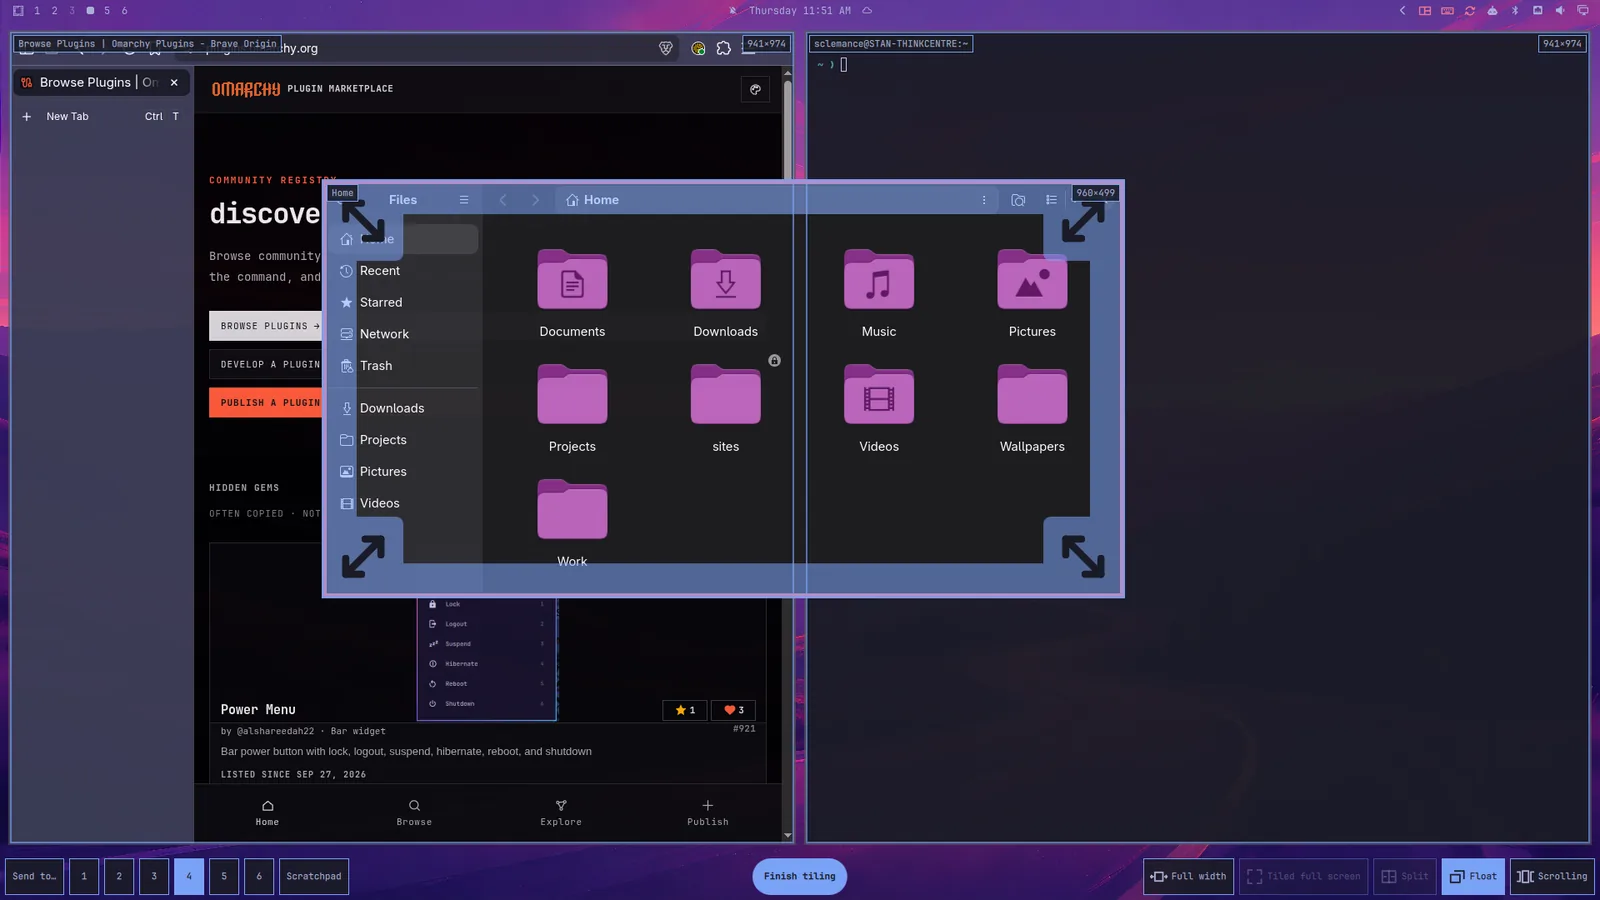
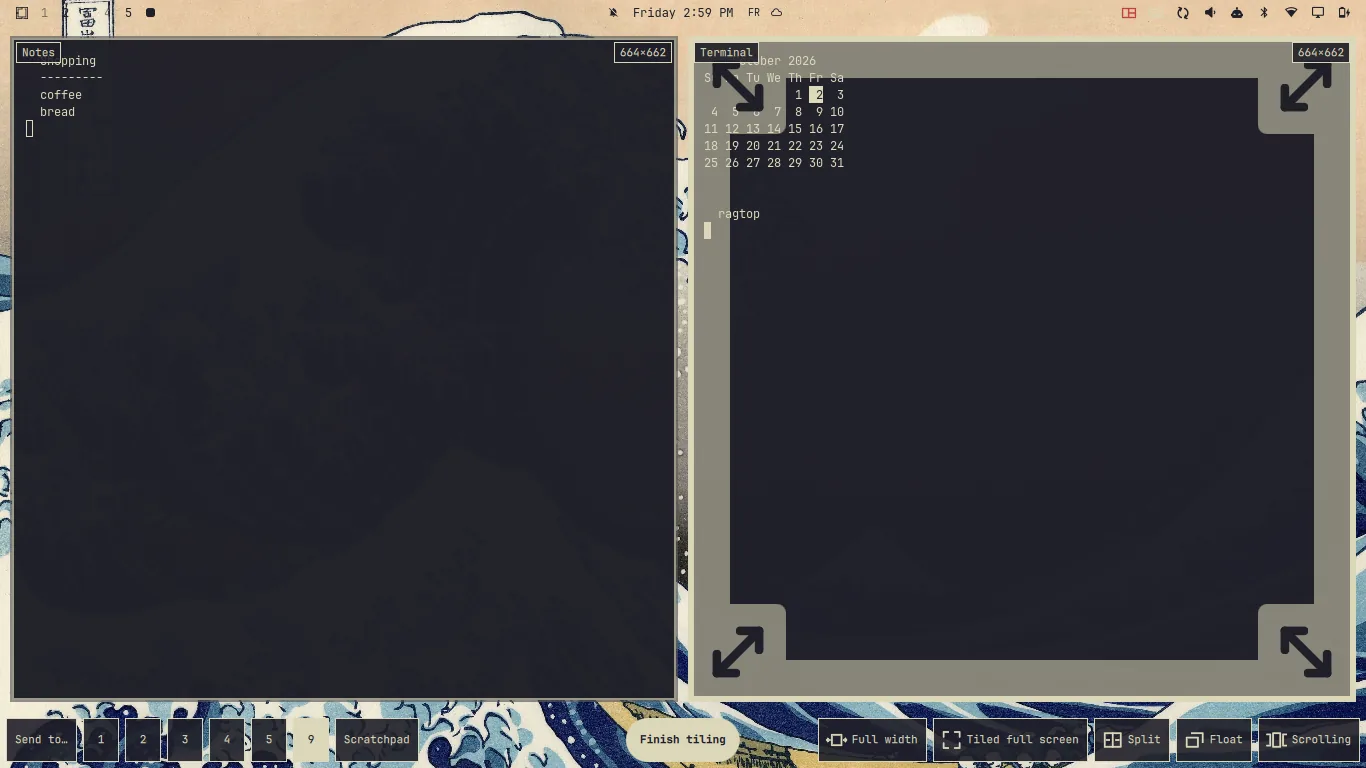
Refresh the screenshots and spread them through the README
Nine new shots on blank desktops replace the September set, and instead of
one gallery up top each sits beside the section it shows, held to a size
that leaves the text room.

diff --git a/README.md b/README.md
@@ -28,29 +28,19 @@ The keyboard takes its colours from your Omarchy theme and its letters from
 your Hyprland layout, so it matches whatever you already run. The look is
 yours to change (see [Themes](#themes)).
 
-**It is not one keyboard.** Ragtop draws whichever board the screen can
-carry, from a tenkeyless down to the phone style, and changes its mind when
-the screen turns:
-
-| | |
-| --- | --- |
-| ![A 75% board in portrait, Spaceship theme on Osaka Jade](screenshots/portrait-75-spaceship-osaka-jade.webp) | ![The mobile board in portrait, Typewriter theme on Gruvbox](screenshots/portrait-mobile-typewriter-gruvbox.webp) |
-| **75%** in portrait: a function row, a number row and a nav column, with **Spaceship** on Osaka Jade and no background at all | **Mobile** in portrait: three letter rows and the symbol pages behind `?123`, with **Typewriter** on Gruvbox over its own tinted panel |
-
-**A Ragtop theme sets the shape of a key and your Omarchy theme sets its
-colour**, which is why any Ragtop theme looks right on any Omarchy one:
-
 | | | |
 | --- | --- | --- |
-| ![Glass theme on Tokyo Night, German layout](screenshots/glass-tokyo-night.jpg) | ![Typewriter theme on Catppuccin Latte, French layout](screenshots/typewriter-catppuccin-latte.jpg) | ![The lock screen's keyboard on Rose Pine](screenshots/lock-screen-rose-pine.jpg) |
-| **Glass** on Tokyo Night: see-through keys over a blurred desktop, QWERTZ | **Typewriter** on Catppuccin Latte: raised keycaps, AZERTY with its short bottom row filled out | **The lock screen's own keyboard**, in the lock screen's palette |
+| ![Glass theme on Tokyo Night, a 60% board](screenshots/glass-tokyo-night.webp) | ![Typewriter theme on Catppuccin Latte, a 75% board](screenshots/typewriter-catppuccin-latte.webp) | ![Spaceship theme on Osaka Jade, a tenkeyless board](screenshots/spaceship-osaka-jade-tkl.webp) |
+| **Glass** on Tokyo Night, 60% | **Typewriter** on Catppuccin Latte, 75% | **Spaceship** on Osaka Jade, tenkeyless |
 
-And the parts that only exist because it is a finger rather than a mouse:
-
-| | |
-| --- | --- |
-| ![Holding a letter for its accents](screenshots/portrait-accents-osaka-jade.jpg) | ![The nav strip under the background picker](screenshots/portrait-picker-nav.jpg) |
-| Hold a letter for its accents, the only way to reach é on some layouts | Choosing a background by touch, with the picker's own strip |
+**A Ragtop theme sets the shape of a key and your Omarchy theme sets its
+colour**, which is why any Ragtop theme looks right on any Omarchy one. **It
+is not one keyboard** either: Ragtop draws whichever board the screen can
+carry, from a tenkeyless down to the phone style, and changes its mind when
+the screen turns. More of it further down, beside what it shows:
+[the boards](#which-board), [themes](#themes),
+[accents](#what-every-board-has), [the pickers](#the-theme-and-background-pickers),
+[the lock screen](#the-lock-screen) and [tiling mode](#tiling-mode-preview).
 
 ## Which tablets?
 
@@ -343,6 +333,14 @@ colours and font, and the Transparency setting, without restarting.
 
 There is more than one, and they are the boards those names mean.
 
+<p align="center">
+  <img src="screenshots/portrait-75-spaceship-osaka-jade.webp" width="260" alt="A 75% board in portrait, Spaceship theme on Osaka Jade">
+  &nbsp;
+  <img src="screenshots/portrait-mobile-typewriter-gruvbox.webp" width="260" alt="The mobile board in portrait, Typewriter theme on Gruvbox">
+  <br>
+  <sub>The same screen turned upright: <b>75%</b> with Spaceship on Osaka Jade, and <b>Mobile</b> with Typewriter on Gruvbox</sub>
+</p>
+
 **Mobile** is the three letter rows with symbol pages behind a `?123` key,
 which is what a phone keyboard is and what Ragtop drew for its whole life
 until now.
@@ -495,6 +493,12 @@ well, and does.
   away. **Hold it** for Ragtop's own controls, which come up over the keyboard
   so the keys stay in view while you change them. A small gear in the corner
   of the key says so, the way a cap prints what AltGr types on it. See below.
+
+<p align="center">
+  <img src="screenshots/accents-french-ergol.webp" width="640" alt="Holding a letter for its accents on a French Ergo-L layout">
+  <br>
+  <sub>Holding a letter for its accents. The letters are the active layout's own, here French Ergo-L, which is why the home row is not QWERTY</sub>
+</p>
 
 `keyboard-helper.py` sends the keys: it registers a Wayland virtual keyboard
 with the same keymap as your physical keyboard, which is also why your SUPER
@@ -655,6 +659,11 @@ Six ship: Omarchy, Soft, Typewriter, Glass, Industrial and Spaceship. Apply
 one from the menu or with `./ragtop theme apply <name>`. Yours go in
 `~/.config/ragtop/themes/<name>/ragtop.toml` and win where the names match.
 
+| | |
+| --- | --- |
+| ![Soft theme on Everforest](screenshots/soft-everforest.webp) | ![Industrial theme on Matte Black, the mobile board](screenshots/industrial-matte-black-mobile.webp) |
+| **Soft** on Everforest, rounded and quiet | **Industrial** on Matte Black, the mobile board in landscape |
+
 Applying one **writes its values into your settings**, so afterwards every
 menu row shows what the keyboard is actually doing. A theme is a starting
 point, not a layer that overrides you. It is also a whole look rather than a
@@ -700,8 +709,9 @@ The windows themselves are the controls. They stay at full size with their
 own content visible, and they reflow as you work, which is the whole reason
 it happens over them rather than over a scaled-down map.
 
-![Tiling mode over two tiled windows, with drag handles on each and the
-controls along the bottom](screenshots/tiling-mode.webp)
+<p align="center">
+  <img src="screenshots/tiling-mode.webp" width="720" alt="Tiling mode over two tiled windows, with drag handles on each and the controls along the bottom">
+</p>
 
 Two tiles with their handles up, and the strip along the bottom: the
 workspaces and the scratchpad on the left, the shapes on the right, and the
@@ -874,6 +884,10 @@ drawn from the keyboard's own theme and reserves its space, so the carousel
 sits above it. The keyboard handle stays, so you can still bring the keyboard
 up to type a filter where the picker takes one.
 
+<p align="center">
+  <img src="screenshots/picker-nav.webp" width="560" alt="The background picker with Ragtop's strip along the bottom">
+</p>
+
 Without the clone Ragtop can only get out of the way: a stock picker takes
 every touch on the screen, so the strip's own taps would never reach it, and
 even a tap on the keyboard would land on the picker and throw it away. So
@@ -901,6 +915,10 @@ are picking stays legible against the keys it covers. The keys edit
 the password the same way typing does, and Omarchy checks it as usual. The
 keyboard itself is `LockKeyboard.qml` in Ragtop's folder, which the clone
 loads.
+
+<p align="center">
+  <img src="screenshots/lock-screen-nord.webp" width="560" alt="The lock screen's own keyboard on Nord">
+</p>
 
 It's shaped like the desktop keyboard but drawn in the lock screen's own
 colours, and it's deliberately a separate, self-contained file: it shares no
